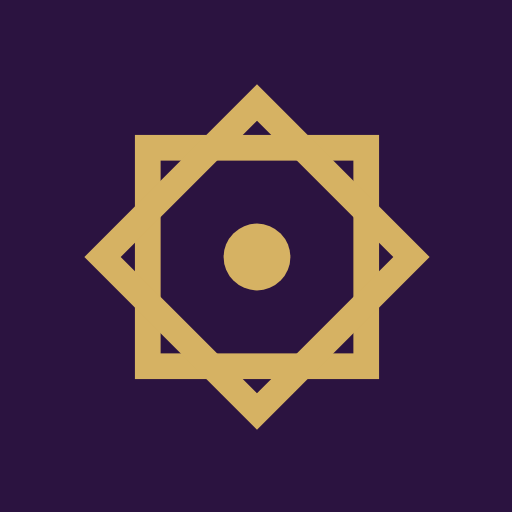
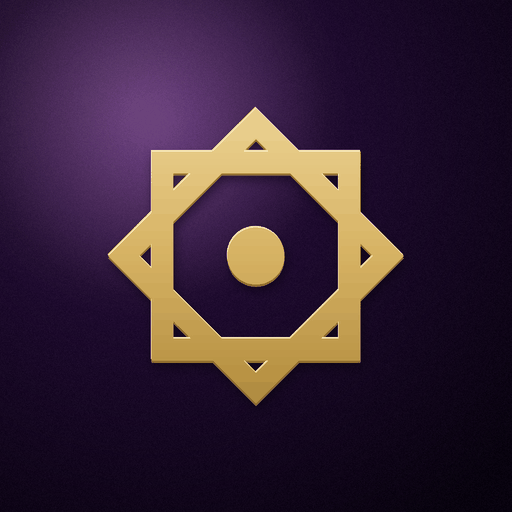
Web: el icono nuevo, el mismo que el de la app (terciopelo oscuro con brillo y la estrella dorada)
- apple-touch-icon, icon-192 e icon-512 salen del icono de 1024 de la app que aprobó Pablo («muestra 2»), a 256 colores (20, 23 y 162 KB).
- El favicon SVG lo imita con degradados; etiquetas y manifest en ?v=3.

diff --git a/DECISIONS.md b/DECISIONS.md
@@ -1,5 +1,14 @@
 # Decisiones de diseño y técnicas
 
+## 2026-11-28 · Web: el icono nuevo, el mismo que el de la app («muestra 2» del sobremesa)
+- **Qué:** terciopelo oscuro con un brillo arriba a la izquierda y la estrella dorada en relieve, sin el galón circular. Pablo lo aprobó en el chat del sobremesa («Si hazlo»), y el sobremesa lo pone en la app. La web lleva el mismo.
+- **De dónde:** el icono de 1024 px de la app (opaco), del lienzo del sobremesa (artifact «Cartas y sobres de Ocho Capitales», recurso 3fa81f16e7aaf9796d053e9868af8e05).
+- **Cómo:**
+  - `apple-touch-icon.png` (180 px), `icon-192.png` e `icon-512.png` (también el «maskable») salen de ese icono, reducidos con Lanczos y a 256 colores con difuminado. No se ven bandas, y pesan un 35 % menos que en color completo: 20, 23 y 162 KB.
+  - El favicon SVG (`MARK_INNER` en `build.mjs`, solo lo usa `icon.svg`) imita el icono con degradados, con la misma estrella de siempre: a 16-32 px no se ve el relieve.
+  - Las etiquetas y el manifest pasan a `?v=3`, para que los navegadores, que guardan los favicons mucho tiempo, cojan el nuevo.
+- **Probado y descartado:** subir los PNG en color completo (244 KB el de 512, sin diferencia a la vista).
+
 ## 2026-11-28 · Málaga: el trono del Cristo del Santo Sepulcro es un catafalco, no una urna (corrección recibida por el formulario de Colabora; Pablo: «Revisa esto»)
 - **La corrección decía:** «El trono del cristo no es una urna de madera barnizada. Es un catafalco de madera de caoba, bronce y oro…», con la web de la hermandad como fuente.
 - **Comprobado y corregido** en `tools/sources/pasos-cortejo.json` (y `portal.json`, regenerado con `tools/build-data.js`):
